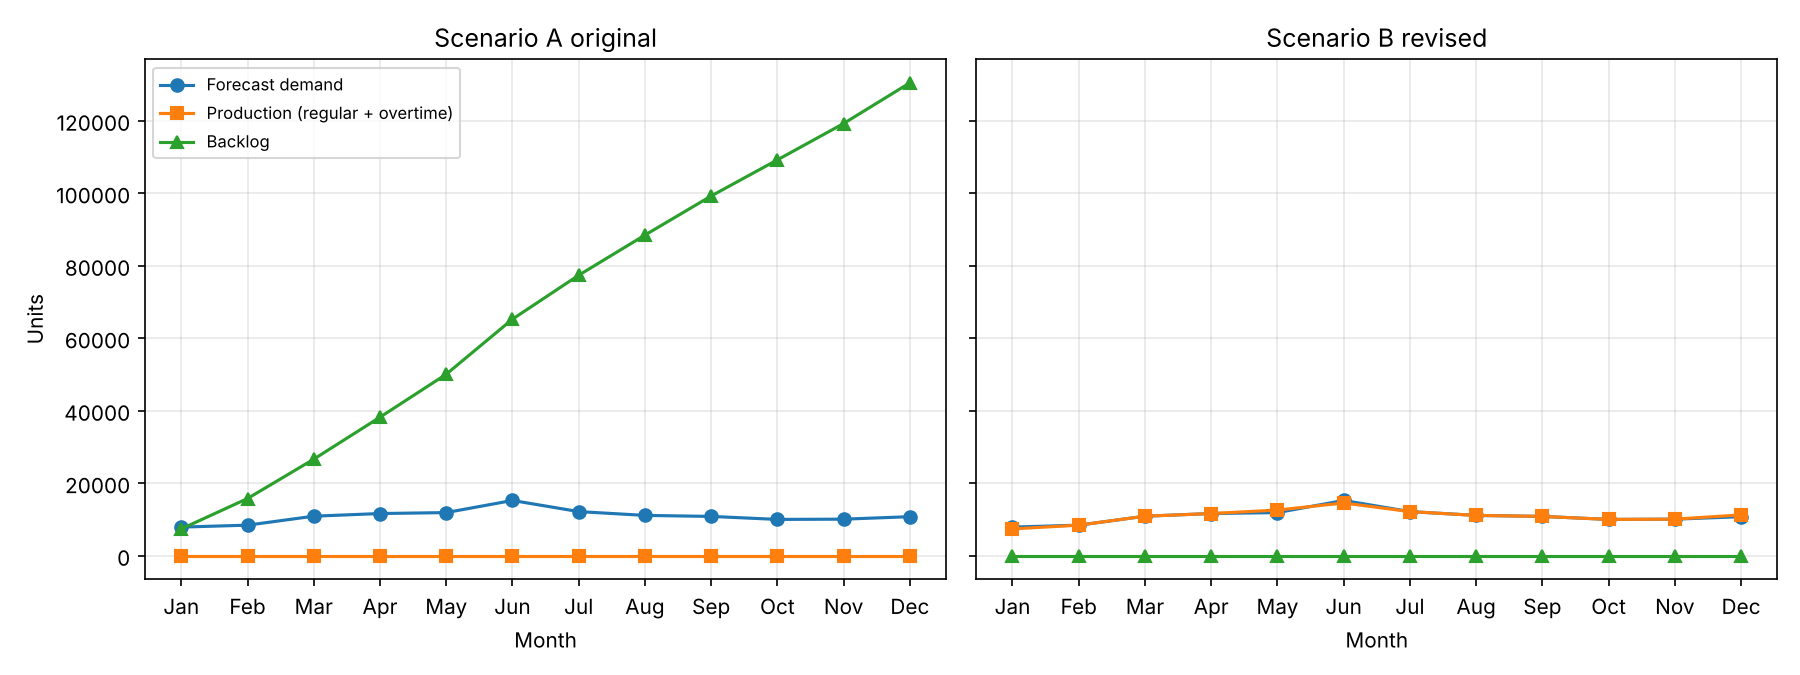
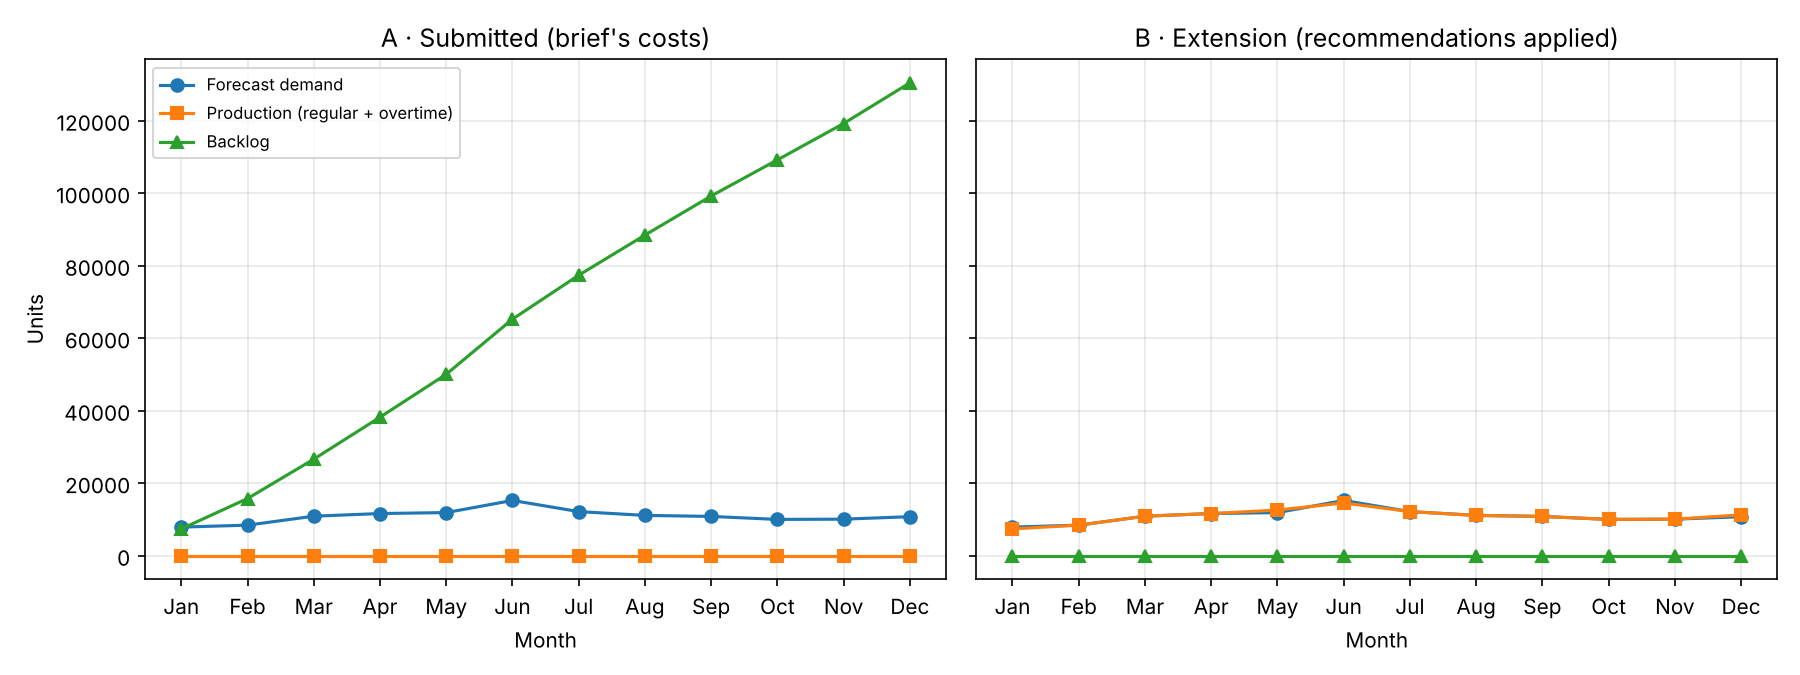
Add files via upload

Changed region(s): [[0.6222, 0.0311, 0.9022, 0.0933], [0.2178, 0.0311, 0.4044, 0.0933]]

diff --git a/production_planning.py b/production_planning.py
@@ -1,13 +1,15 @@
 """
 Production and inventory planning with linear programming (PuLP).
 
-Plans 12 months of production for a seasonal product, using demand forecast
-by a Holt-Winters model, and compares two cost scenarios:
+UOB Clothing (MSc Supply Chain Analytics coursework, University of Bristol, 2026).
+Plans 12 months of swimwear production using the Holt-Winters demand forecast
+from Part 1 (built in R), and compares two scenarios:
 
-  A. Original costs: backlog penalty (0.50/unit/month) is far below the cost
-     of producing a unit (8.00), so the cheapest plan defers demand.
-  B. Revised costs and service level: backlog penalty raised above overtime
-     cost, and all backlog cleared by the end of the year.
+  A. Submitted coursework: the brief's parameters. The backlog penalty
+     (GBP 0.50/unit/month) is far below the cost of making a unit (GBP 8.00),
+     so the cheapest plan defers all demand.
+  B. Post-submission extension: the report's recommendations applied. Backlog
+     penalty raised above overtime cost and backlog cleared by December.
 
 Run:  python production_planning.py
 """
@@ -20,21 +22,21 @@ import pulp
 MONTHS = ["Jan", "Feb", "Mar", "Apr", "May", "Jun",
           "Jul", "Aug", "Sep", "Oct", "Nov", "Dec"]
 
-# 12-month demand forecast from the Holt-Winters model (units)
+# 12-month demand forecast, Jan-Dec 2025, from the Holt-Winters model in R (units)
 DEMAND = [7845, 8380, 10855, 11586, 11847, 15197,
           12123, 11072, 10791, 9964, 10034, 10717]
 
-COST_REGULAR = 8.00      # per unit, regular production
-COST_OVERTIME = 12.00    # per unit, overtime production
-COST_HOLDING = 0.17      # per unit held in inventory per month
+COST_REGULAR = 8.00      # GBP per unit, regular production
+COST_OVERTIME = 12.00    # GBP per unit, overtime production
+COST_HOLDING = 0.17      # GBP per unit held in inventory per month
 CAP_REGULAR = 14_500     # units per month
 CAP_OVERTIME = 1_450     # units per month
 OPENING_INVENTORY = 500
 CLOSING_INVENTORY_MIN = 500
 
 SCENARIOS = {
-    "A_original": {"backlog_cost": 0.50, "clear_backlog_by_dec": False},
-    "B_revised":  {"backlog_cost": 15.00, "clear_backlog_by_dec": True},
+    "A_submitted": {"backlog_cost": 0.50, "clear_backlog_by_dec": False},
+    "B_extension": {"backlog_cost": 15.00, "clear_backlog_by_dec": True},
 }
 
 OUT = Path(__file__).parent / "outputs"
@@ -76,7 +78,7 @@ def solve(backlog_cost: float, clear_backlog_by_dec: bool) -> dict:
 
 
 def report(name: str, r: dict) -> None:
-    print(f"\n=== Scenario {name}: {r['status']}, total cost {r['cost']:,.0f}")
+    print(f"\n=== Scenario {name}: {r['status']}, total cost GBP {r['cost']:,.0f}")
     print(f"{'Month':>5} {'Demand':>8} {'Regular':>9} {'Overtime':>9} {'Inventory':>10} {'Backlog':>9}")
     for i, mth in enumerate(MONTHS):
         print(f"{mth:>5} {DEMAND[i]:>8,} {r['regular'][i]:>9,.0f} {r['overtime'][i]:>9,.0f}"
@@ -91,7 +93,9 @@ def plot(results: dict) -> None:
         ax.plot(MONTHS, DEMAND, marker="o", label="Forecast demand")
         ax.plot(MONTHS, produced, marker="s", label="Production (regular + overtime)")
         ax.plot(MONTHS, r["backlog"], marker="^", label="Backlog")
-        ax.set_title(f"Scenario {name.replace('_', ' ')}")
+        label = {"A_submitted": "A · Submitted (brief's costs)",
+                 "B_extension": "B · Extension (recommendations applied)"}[name]
+        ax.set_title(label)
         ax.set_xlabel("Month")
         ax.grid(alpha=0.3)
     axes[0].set_ylabel("Units")

diff --git a/README.md b/README.md
@@ -1,6 +1,6 @@
 # Production Planning with Linear Programming (PuLP)
 
-A 12-month production and inventory plan for a seasonal product, built as a linear programme in Python. It shows how one cost assumption, the **backlog penalty**, can quietly push an "optimal" plan into serving no customers at all, and how revised cost and service-level constraints fix it.
+A 12-month production and inventory plan for UOB Clothing's swimwear product, built as a linear programme in Python. With the costs given in the coursework brief, the cost-minimising plan **produces nothing and defers all demand**. This repo shows why, and how the recommendations from my report change the plan.
 
 *MSc Data Science for Business, University of Bristol · Supply Chain Analytics · 2026*
 
@@ -8,15 +8,18 @@ A 12-month production and inventory plan for a seasonal product, built as a line
 
 ## The problem
 
-A fast-fashion retailer needs to decide how many units of a swimwear product to make each month, using regular capacity, overtime or stored inventory, while meeting a demand forecast at the lowest total cost.
+UOB Clothing, an online fast-fashion company in the UK, needs to decide how many swimwear units to make each month in 2025, using regular production, overtime or stored inventory, at the lowest total cost.
 
-Demand comes from a **Holt-Winters** forecast (built separately in R; MAPE 2.9%), which peaks in June.
+**Demand** comes from my 12-month forecast built in R (Part 1 of the coursework). I compared Holt's linear trend method with **Holt-Winters exponential smoothing (multiplicative seasonality)** on 36 months of sales (Jan 2022 – Dec 2024). Holt-Winters fitted best (MAE 213.9 · RMSE 260.5 · **MAPE 2.90%**) and forecasts a June 2025 peak of about 15,197 units.
+
+**Parameters** (as set in the coursework brief):
 
 | Input | Value |
 |---|---|
-| Regular production | 8.00 per unit, up to 14,500 units/month |
-| Overtime production | 12.00 per unit, up to 1,450 units/month |
-| Holding cost | 0.17 per unit per month |
+| Regular production | £8.00 per unit, up to 14,500 units/month |
+| Overtime production | £12.00 per unit, up to 1,450 units/month |
+| Holding cost | £0.17 per unit per month |
+| Backlog (stockout) penalty | £0.50 per unit per month |
 | Opening and minimum closing inventory | 500 units |
 
 ## The model
@@ -33,23 +36,28 @@ For each month *t*, the decision variables are regular production *Pₜ*, overti
 
 ## Results
 
-| | Scenario A: original costs | Scenario B: revised |
+| | **A · Submitted coursework** | **B · Extension (after submission)** |
 |---|---|---|
-| Backlog penalty (*b*) | 0.50 per unit per month | 15.00 per unit per month |
+| Backlog penalty (*b*) | £0.50 per unit per month (brief) | £15.00 per unit per month (illustrative) |
 | Backlog must be cleared by December | No | Yes |
 | Units produced | **0** | 130,411 |
 | Backlog in December | **130,411 units** | 0 |
-| Total cost | 413,454 | 1,043,491 |
+| Total cost | ≈ £413,450 | ≈ £1,043,490 |
 
-**Scenario A** looks cheaper, but only because it never produces anything. A backlog penalty of 0.50 is far below the 8.00 cost of making a unit, so the solver's cheapest choice is to defer every order, all year. Mathematically optimal; commercially absurd.
+**Scenario A** is the result in my submitted report. It looks cheap only because it never produces anything: a £0.50 backlog penalty is far below the £8.00 cost of making a unit, so the solver defers every order, all year. Mathematically optimal, operationally unrealistic.
 
-**Scenario B** sets the backlog penalty above the overtime cost and requires backlog to be cleared by year end. The plan then meets demand month by month, builds about 700 units of stock in May ahead of the June peak (when demand exceeds regular capacity), and finishes with the required 500 units.
+My report made three recommendations:
+1. Re-evaluate the backlog cost so it reflects lost sales and customer dissatisfaction
+2. Add service-level constraints so demand is actually fulfilled
+3. Produce proactively before peak months
+
+**Scenario B** applies all three. With the backlog penalty set above the overtime cost and backlog cleared by December, the plan meets demand month by month. It also builds about 700 units of stock in **May**, because June's forecast (15,197) exceeds regular capacity (14,500), and making units early and storing them (£8.17) is cheaper than overtime (£12.00).
 
 ## What this shows
 
 - An optimisation model is only as good as its costs. When a penalty is mispriced, the "optimal" answer can be the opposite of what the business wants.
-- Service-level constraints (here, clearing backlog by year end) are a simple guard against plans that look cheap on paper.
-- Checking the solution, not just the solver status, matters: both scenarios report "Optimal".
+- Service-level constraints are a simple guard against plans that look cheap on paper.
+- Check the solution, not just the solver status: both scenarios report "Optimal".
 
 ## Run it
 
@@ -70,4 +78,4 @@ This prints both monthly plans and saves the chart to `outputs/scenarios.png`.
 | `requirements.txt` | Python dependencies |
 | `outputs/scenarios.png` | Demand, production and backlog for each scenario |
 
-*This is a tidied version of my coursework code: the parameters are gathered at the top, the flow-balance constraint is written in its standard form, and Scenario B is added to illustrate the recommendation.*
+*Notes: this is a tidied version of my coursework code, with parameters gathered at the top and the flow-balance constraint written in its standard form (backlog carried in is added to the month's requirement). Scenario A matches my report's result; totals differ by a few pounds because of rounding. The forecasting work in R will be in a separate repo.*
